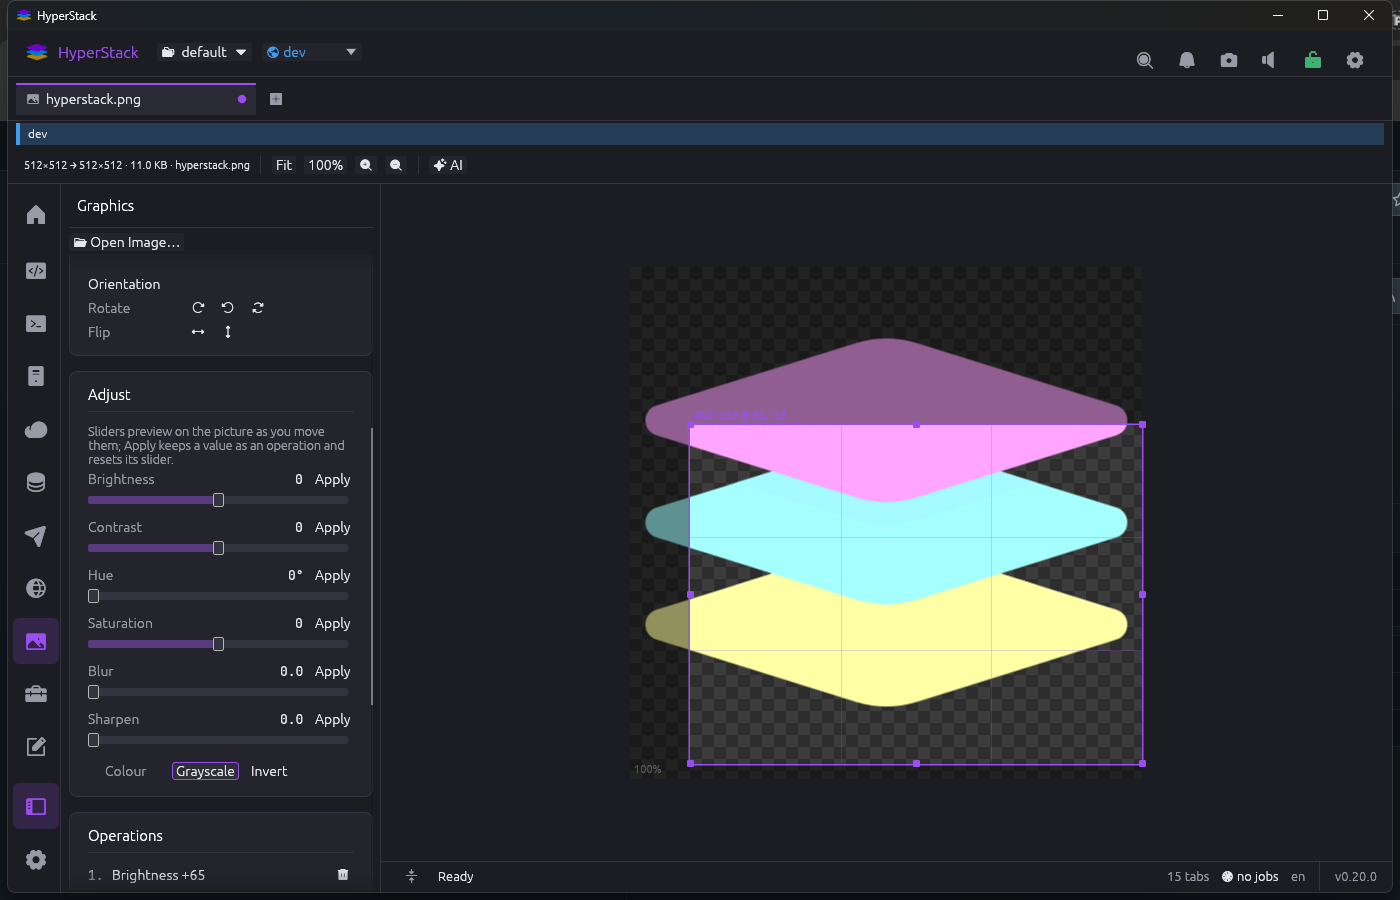
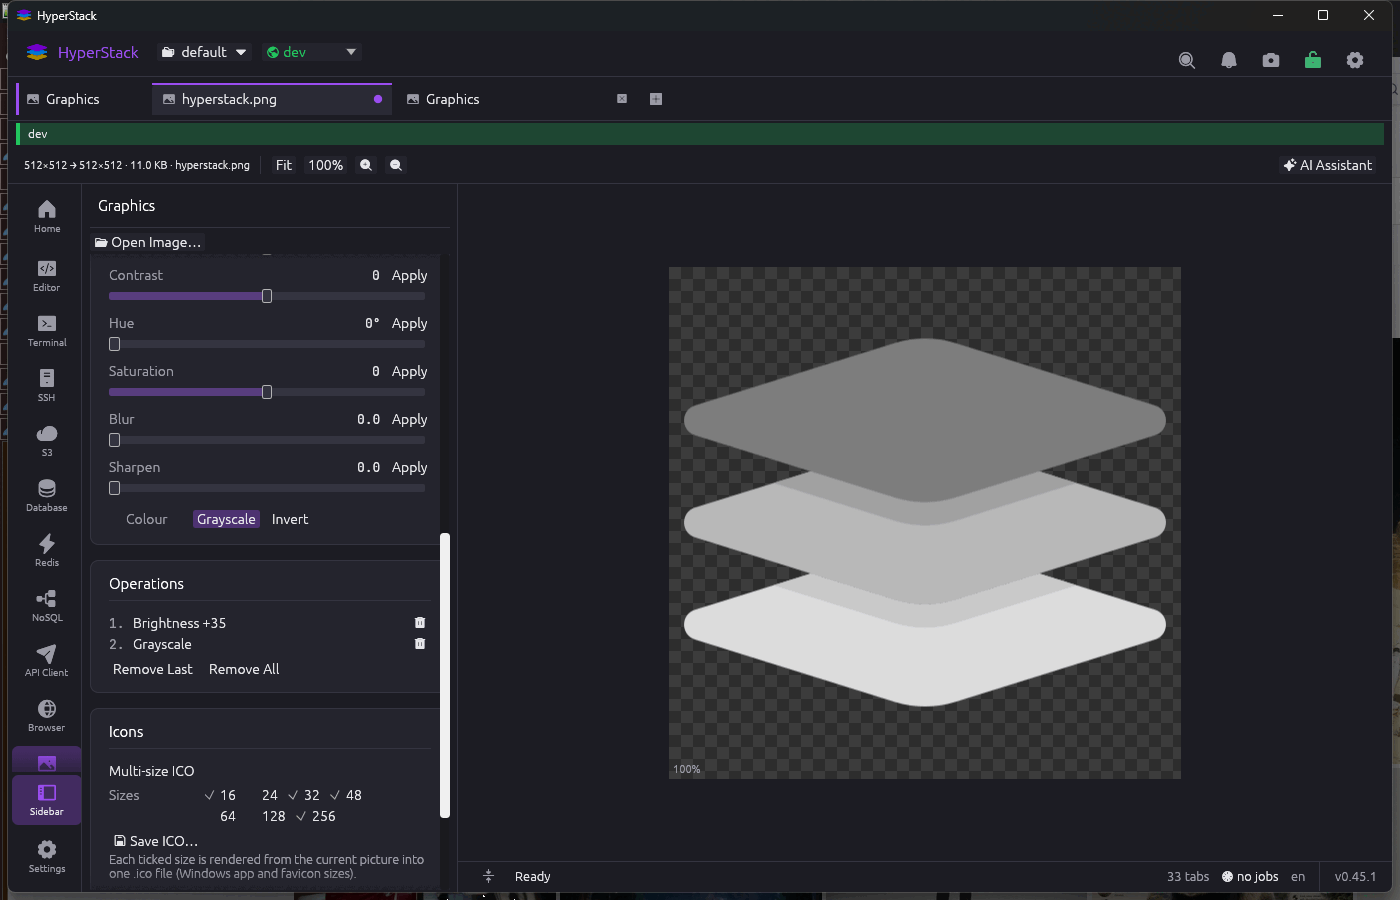
docs: refresh the Graphics operations screenshot
Brightness +35 and Grayscale applied to the app icon, with the operation\nlist, remove buttons and the grayscale result.

diff --git a/docs/screenshots/README.md b/docs/screenshots/README.md
@@ -151,7 +151,8 @@ environments); `devtools-jwt.png`, `devtools-hashes.png`,
 `terminal-search.png` and `terminal-links.png`; `ssh-tunnels.png` and
 `ssh-remote-edit.png` (`remote-note.txt` was uploaded over SFTP because the
 test shell understands only `echo`/`cd`/`pwd`, not redirection);
-`graphics.png` and `graphics-crop.png` with the app icon; `scratchpad.png`
+`graphics.png`, `graphics-ops.png` (Brightness +35 and Grayscale in the
+Operations list) and `graphics-crop.png` with the app icon; `scratchpad.png`
 with a new note; `editor-projects.png`, `editor-find-replace.png` and
 `editor-markdown-preview.png` (the architecture flowchart rendered beside its
 source); `launcher.png`, `command-palette.png`, `dock.png`,
